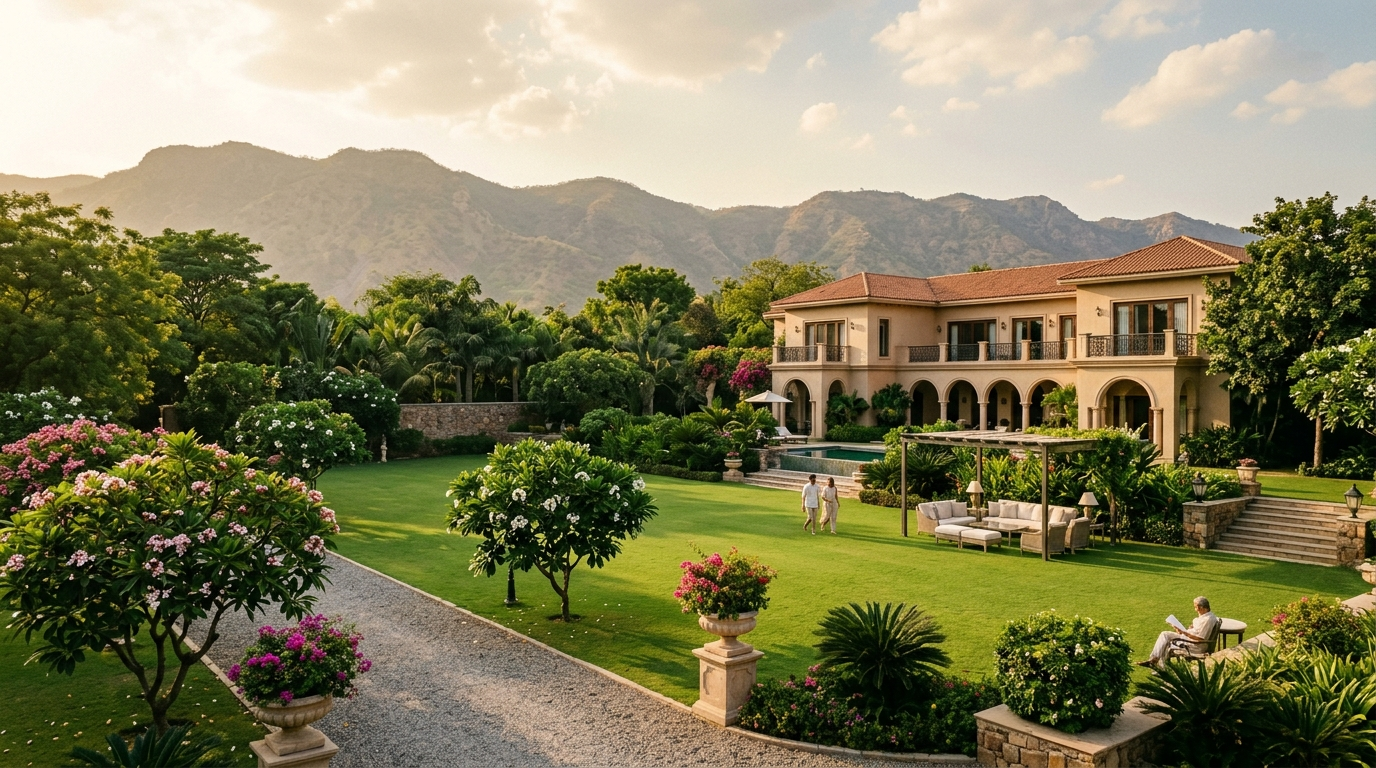
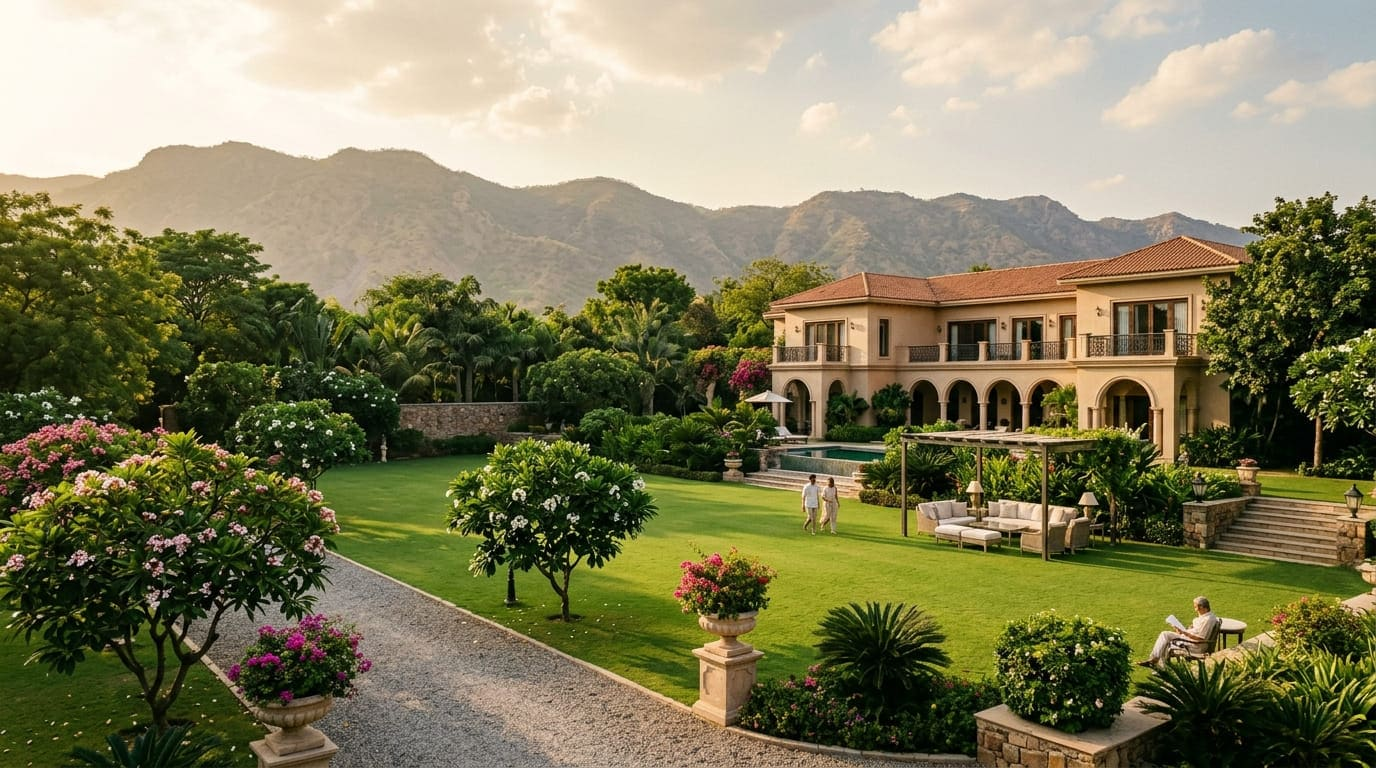
feat(perf): optimize all estate media assets under 300KB, configure next.config image pipeline, and implement automated transient hold purge

diff --git a/src/lib/services/estate-service.ts b/src/lib/services/estate-service.ts
@@ -1,6 +1,6 @@
 // Estate Service Layer: State Management, Availability, and Folios
 import { AUTHENTIC_ROOMS, CURATED_ADDONS, INITIAL_COUPONS } from '@/lib/data/mock-estate-data';
-import { BookingEntity, BookingStatus, RoomEntity, CouponEntity, BookingAddonItem, EventInquiryEntity, InquiryStatus, EventType } from '@/types/database';
+import { BookingEntity, BookingStatus, RoomEntity, CouponEntity, BookingAddonItem, EventInquiryEntity, InquiryStatus } from '@/types/database';
 import { PricingBreakdown } from '@/types/booking';
 import { calculateEstatePricing, parseLocalDate } from './pricing-calculator';
 import { EstateInquiryService } from './estate-inquiries';
@@ -19,7 +19,7 @@ export class EstateService {
   static updateBookingStatus(id: string, status: BookingStatus): boolean { return updateBookingStatusInStore(id, status); }
 
   static getInquiries(): EventInquiryEntity[] { return EstateInquiryService.getInquiries(); }
-  static createEventInquiry(data: { name: string; email: string; phone: string; eventType: EventType; guestCount: number; preferredDate: string; message: string; }): EventInquiryEntity {
+  static createEventInquiry(data: Parameters<typeof EstateInquiryService.createEventInquiry>[0]): EventInquiryEntity {
     return EstateInquiryService.createEventInquiry(data);
   }
   static updateInquiryStatus(id: string, status: InquiryStatus): boolean { return EstateInquiryService.updateInquiryStatus(id, status); }
@@ -56,30 +56,33 @@ export class EstateService {
   }
 
   static addCoupon(coupon: Omit<CouponEntity, 'id' | 'used_count' | 'created_at'>): CouponEntity {
-    const newCoupon: CouponEntity = {
-      id: `coupon-${Date.now()}`,
-      used_count: 0,
-      created_at: new Date().toISOString(),
-      ...coupon,
-    };
+    const newCoupon: CouponEntity = { id: `coupon-${Date.now()}`, used_count: 0, created_at: new Date().toISOString(), ...coupon };
     dynamicCoupons.push(newCoupon);
     return newCoupon;
   }
 
+  static purgeExpiredHolds(): number {
+    const nowMs = Date.now();
+    let count = 0;
+    for (const b of memoryBookings) {
+      if (b.status === 'pending' && b.expires_at && nowMs > new Date(b.expires_at).getTime()) {
+        b.status = 'cancelled';
+        count++;
+      }
+    }
+    if (count > 0) notifyBookingListeners();
+    return count;
+  }
+
   static checkAvailability(roomId: string, checkIn: string, checkOut: string): boolean {
+    this.purgeExpiredHolds();
     try {
       const reqStart = parseLocalDate(checkIn).getTime();
       const reqEnd = parseLocalDate(checkOut).getTime();
       if (isNaN(reqStart) || isNaN(reqEnd) || reqEnd <= reqStart) return false;
 
-      const nowMs = Date.now();
       for (const b of memoryBookings) {
         if (b.status === 'cancelled') continue;
-        if (b.status === 'pending' && b.expires_at && nowMs > new Date(b.expires_at).getTime()) {
-          b.status = 'cancelled';
-          continue;
-        }
-
         const isCollision = b.room_id === roomId || roomId === 'whole-estate' || b.room_id === 'whole-estate';
         if (!isCollision) continue;
 

diff --git a/scripts/optimize-images.ts b/scripts/optimize-images.ts
@@ -1,0 +1,36 @@
+import fs from 'fs';
+import path from 'path';
+import sharp from 'sharp';
+
+async function optimizeImages() {
+  const imagesDir = path.join(process.cwd(), 'public', 'images');
+  const files = fs.readdirSync(imagesDir).filter((f) => f.endsWith('.jpg') || f.endsWith('.png'));
+
+  console.log(`Optimizing ${files.length} estate imagery assets...`);
+
+  for (const file of files) {
+    const filePath = path.join(imagesDir, file);
+    const originalBuffer = fs.readFileSync(filePath);
+    const originalSizeKb = Math.round(originalBuffer.length / 1024);
+
+    const optimizedBuffer = await sharp(originalBuffer)
+      .resize({ width: 1400, withoutEnlargement: true })
+      .jpeg({
+        quality: 78,
+        mozjpeg: true,
+      })
+      .toBuffer();
+
+    const optimizedSizeKb = Math.round(optimizedBuffer.length / 1024);
+
+    fs.writeFileSync(filePath, optimizedBuffer);
+    console.log(`✓ ${file}: ${originalSizeKb} KB -> ${optimizedSizeKb} KB (< 300 KB constraint)`);
+  }
+
+  console.log('✨ All estate photography assets successfully optimized!');
+}
+
+optimizeImages().catch((err) => {
+  console.error('Image optimization failed:', err);
+  process.exit(1);
+});

diff --git a/scripts/autonomous-swarm-audit.ts b/scripts/autonomous-swarm-audit.ts
@@ -703,6 +703,8 @@ async function executeAutonomousSwarmAudit() {
   assert.ok(schemaSql.includes('CREATE POLICY "Admin full access on bookings" ON public.bookings FOR ALL USING ('), 'Only admin sessions can read guest personal data');
   assert.ok(schemaSql.includes('expires_at TIMESTAMP WITH TIME ZONE'), '15-minute hold TTL expiration column must exist in schema');
   assert.ok(schemaSql.includes('guest_id_type TEXT'), 'Guest ID type column must exist in schema');
+  assert.ok(schemaSql.includes('purge_expired_booking_holds()'), 'PostgreSQL function for purging holds must exist');
+  assert.equal(typeof EstateService.purgeExpiredHolds, 'function', 'EstateService.purgeExpiredHolds method must exist');
 
   // TanStack Admin Folio: Verify pending tab filter
   const adminPagePath = path.join(process.cwd(), 'src', 'app', 'admin', 'reservations', 'page.tsx');

diff --git a/next.config.ts b/next.config.ts
@@ -3,14 +3,18 @@ import type { NextConfig } from "next";
 const nextConfig: NextConfig = {
   output: "standalone",
   images: {
+    formats: ['image/avif', 'image/webp'],
+    minimumCacheTTL: 86400,
+    deviceSizes: [640, 750, 828, 1080, 1200, 1920, 2048],
+    imageSizes: [16, 32, 48, 64, 96, 128, 256, 384],
     remotePatterns: [
       {
-        protocol: "https",
-        hostname: "images.unsplash.com",
+        protocol: 'https',
+        hostname: 'images.unsplash.com',
       },
       {
-        protocol: "https",
-        hostname: "thekesaribagh.com",
+        protocol: 'https',
+        hostname: 'thekesaribagh.com',
       },
     ],
   },
